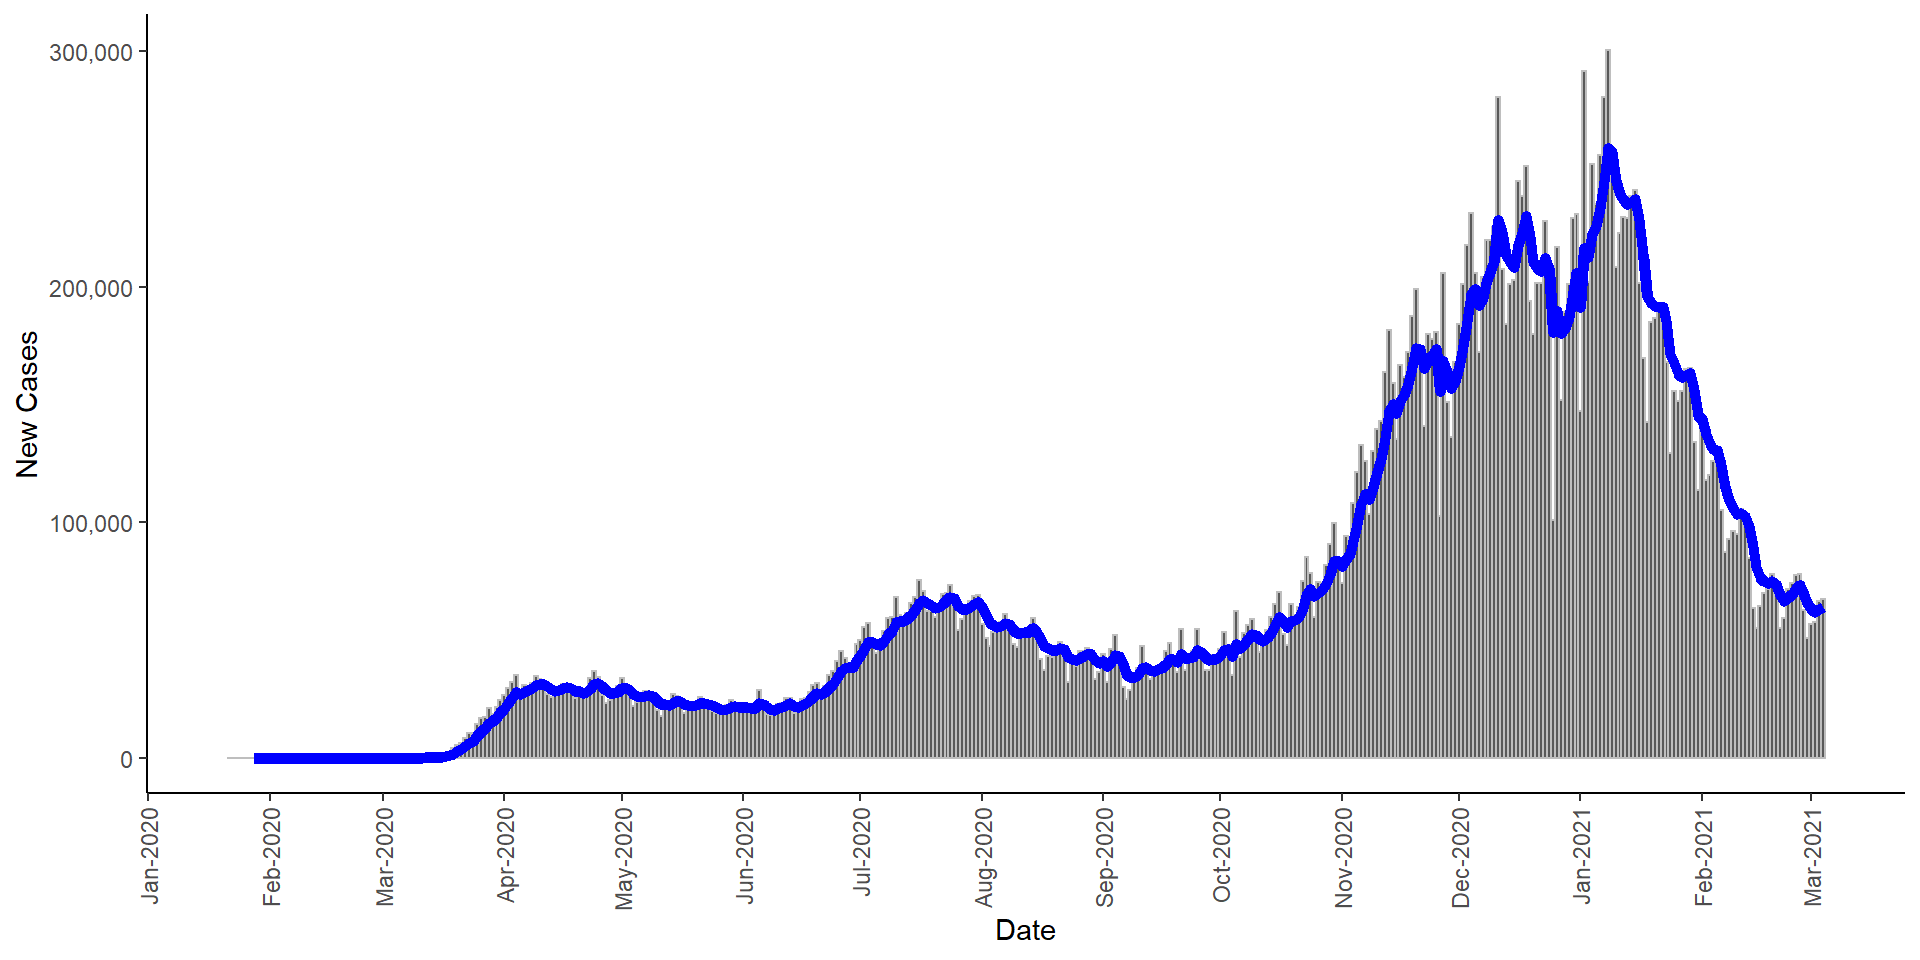
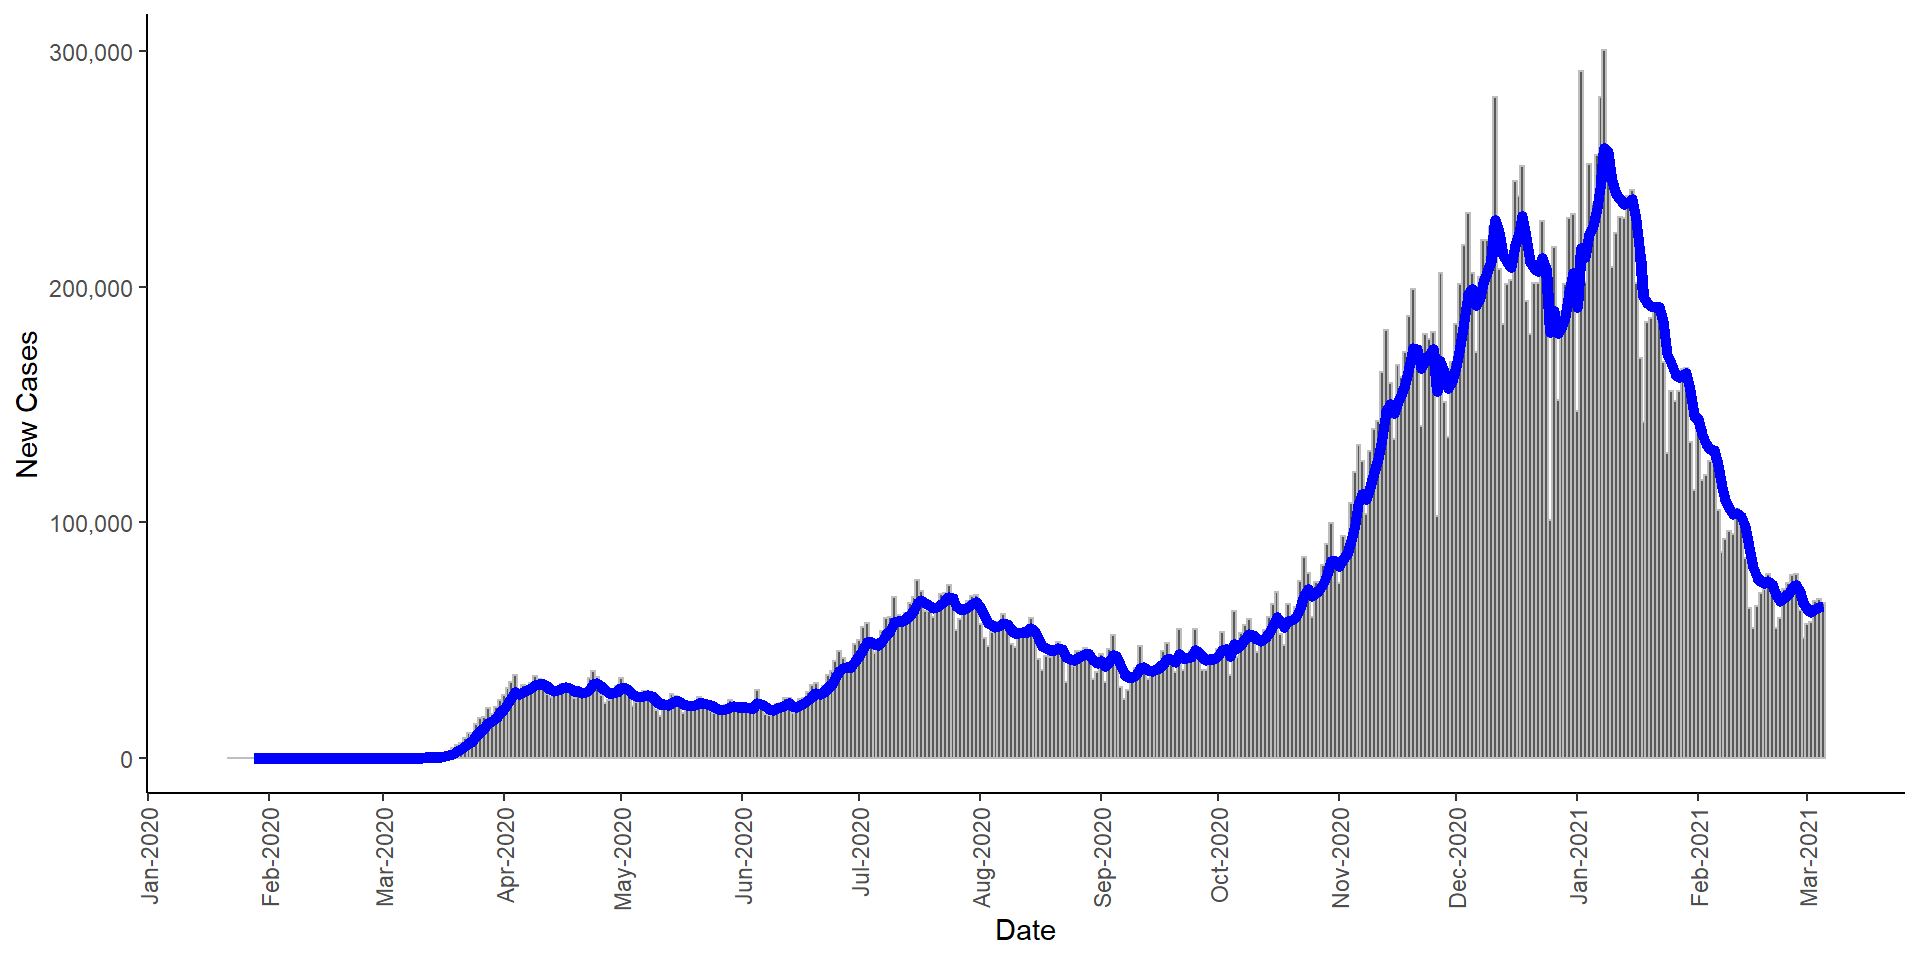
updating data

diff --git a/index.html b/index.html
@@ -358,8 +358,8 @@ summary {
 </div>
 
 
-<div id="updated-as-of-friday-march-5-2021-at-910-am-est" class="section level3">
-<h3>Updated as of Friday, March 5, 2021 at 9:10 AM (EST)</h3>
+<div id="updated-as-of-saturday-march-6-2021-at-1240-pm-est" class="section level3">
+<h3>Updated as of Saturday, March 6, 2021 at 12:40 PM (EST)</h3>
 <p>Good Day:</p>
 <p>Shown below is a current <strong>draft</strong> in continual development and error checking. Please feel free to reach out with suggestions or issues! If you are curious about the situation in specific places in the USA (state/county level) or international locations, please click <a href="http://ec2-3-17-139-199.us-east-2.compute.amazonaws.com:3838/shiny_covid19_aws/"><strong>here</strong></a>.</p>
 <hr />
@@ -1612,7 +1612,7 @@ Inpatient Stress
 </center>
 
 <center>
[2 lines of base64/hex data omitted]
 </center>
 
 </div>
